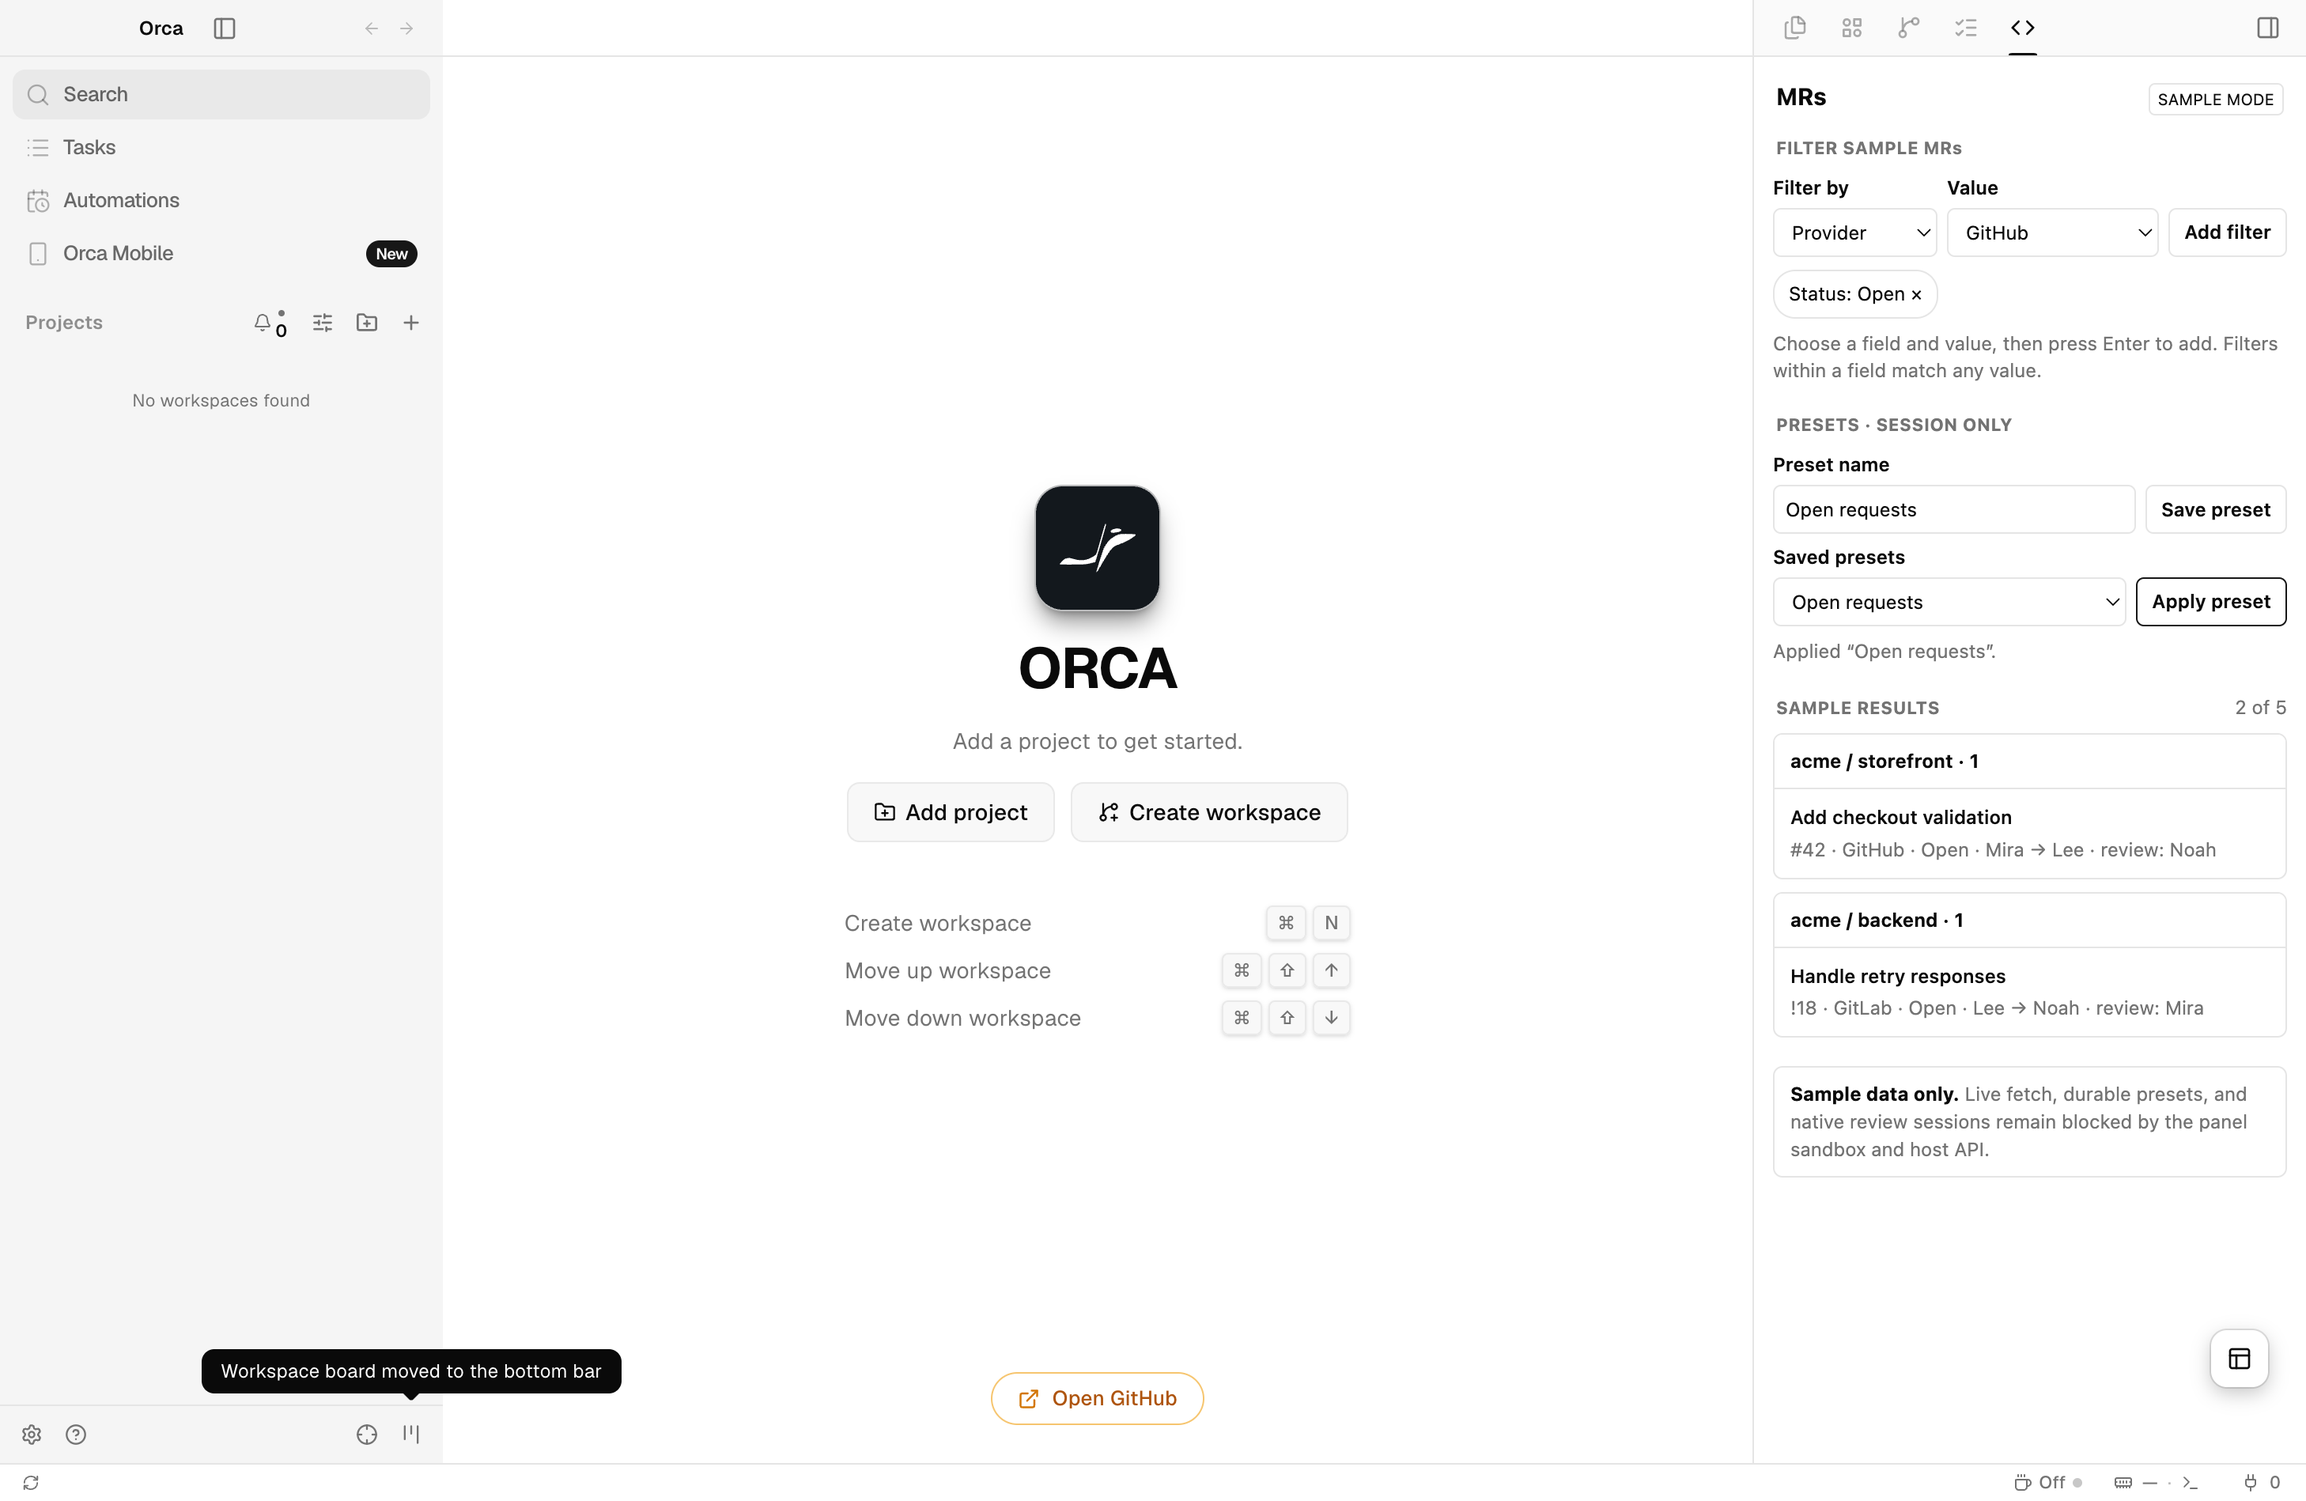
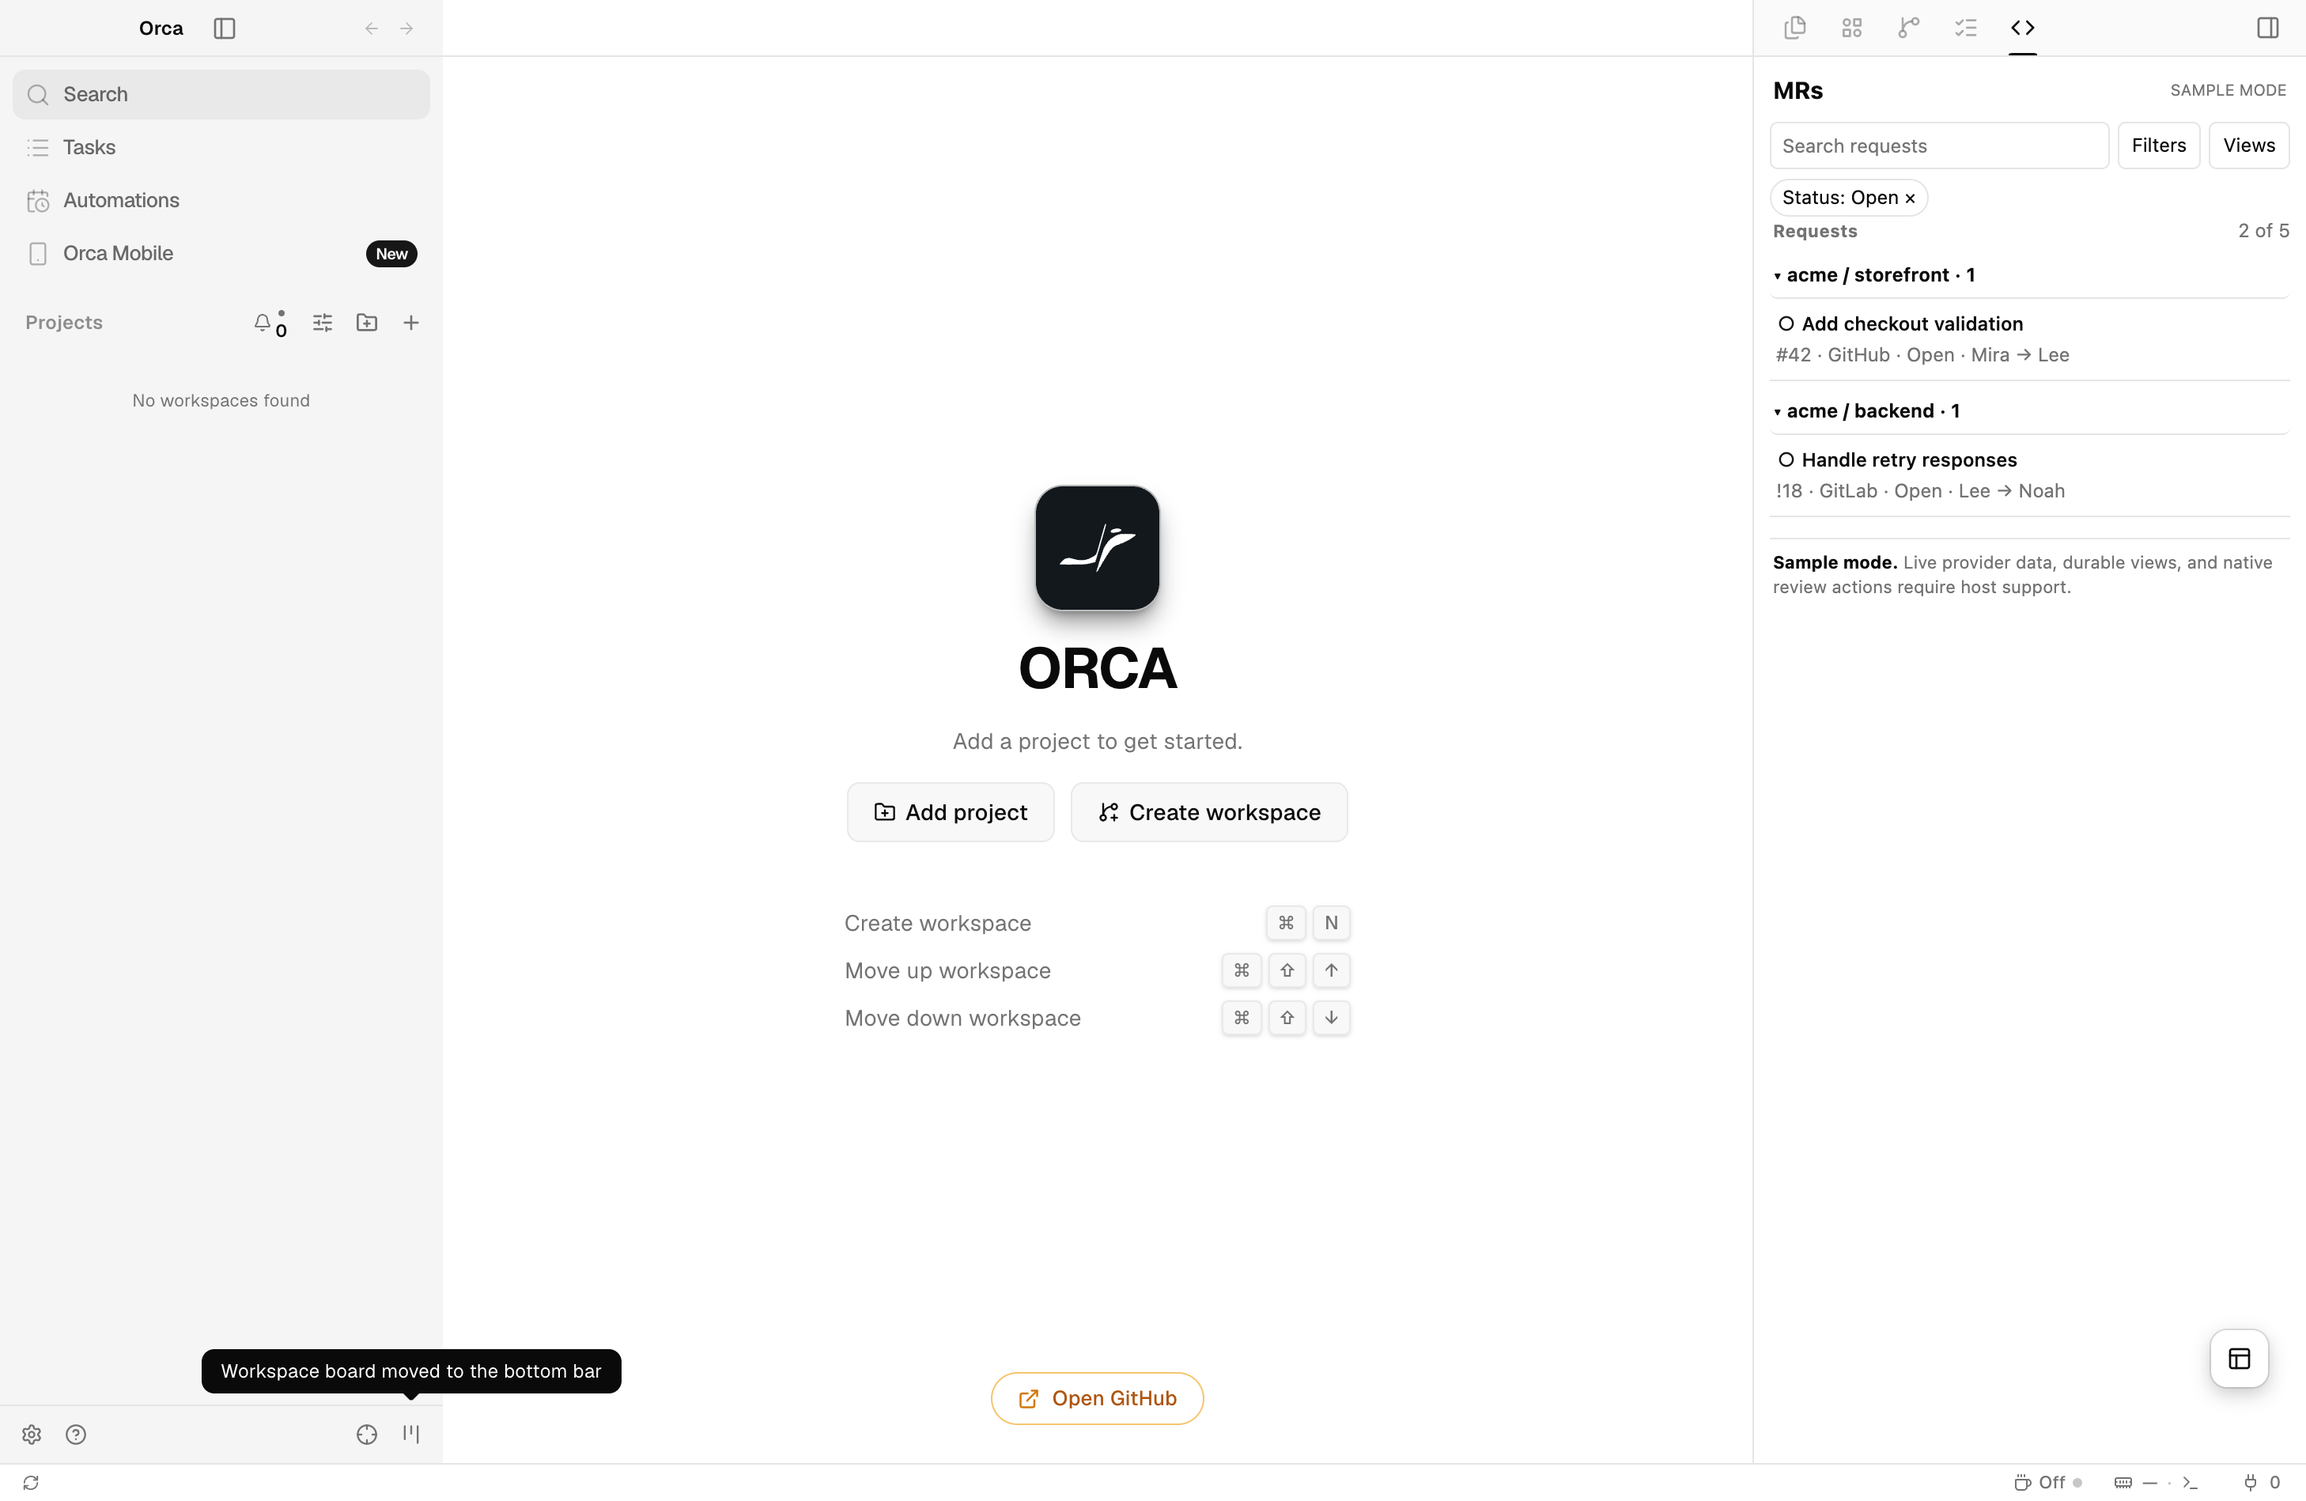
Prepare v1.5.4 reviewed sidebar UI refresh

diff --git a/setup/index.html b/setup/index.html
@@ -4,7 +4,7 @@
 <style>
 *{box-sizing:border-box}body{margin:0;background:var(--background);color:var(--foreground);font:14px/1.6 "Inter Variable",Inter,system-ui,sans-serif}main{max-width:1160px;margin:auto;padding:32px 28px 48px}h1,h2,h3,p{margin:0}h1{font-size:30px;letter-spacing:-.8px;line-height:1.3}h2{font-size:20px;margin-bottom:14px}h3{font-size:14px}.eyebrow{color:var(--muted-foreground);font-size:11px;letter-spacing:1.5px;text-transform:uppercase;margin-bottom:8px}.lede{color:var(--muted-foreground);max-width:760px;margin-top:10px}.top{display:flex;justify-content:space-between;align-items:center;gap:18px}.badge{background:var(--accent);color:var(--accent-foreground);padding:5px 10px;border-radius:5px;font-size:12px;white-space:nowrap}.toolbar{display:flex;gap:16px;align-items:center;flex-wrap:wrap;margin:26px 0 14px}label{font-weight:600}select{font:inherit;background:var(--card);color:var(--card-foreground);border:1px solid var(--border);padding:8px 32px 8px 12px;border-radius:5px}select:focus-visible,a:focus-visible,textarea:focus-visible{outline:2px solid var(--ring);outline-offset:3px}.hint{color:var(--muted-foreground);font-size:12px}.workspace{border:1px solid var(--border);border-radius:8px;overflow:hidden}.titlebar{background:var(--background);padding:11px 16px;border-bottom:1px solid var(--border);display:flex;justify-content:space-between}.workspace-body{display:grid;grid-template-columns:180px 1fr}.files{background:var(--sidebar);color:var(--sidebar-foreground);padding:20px 12px}.files small{color:var(--muted-foreground);font-size:10px;letter-spacing:1px}.file{padding:7px 10px;border-radius:4px;overflow-wrap:anywhere}.file.active{margin-top:12px;background:var(--sidebar-accent);color:var(--sidebar-accent-foreground)}.editor{background:var(--editor-surface);padding:0 20px 20px;min-width:0}.tab{display:inline-block;border-bottom:3px solid var(--primary);padding:10px 2px 7px;font-size:12px;margin-bottom:12px}.code{font:13px/1.75 "JetBrains Mono",ui-monospace,monospace;white-space:pre-wrap;overflow-wrap:anywhere;margin:0}.terminal{background:var(--terminal-background);color:var(--terminal-foreground);border-top:1px solid var(--border);padding:14px 20px 20px}.terminal small{color:var(--muted-foreground);font-size:10px;letter-spacing:1px}.pass{color:var(--terminal-green)}.ansi{display:flex;gap:8px;margin-top:15px}.ansi span{width:28px;height:7px;border-radius:2px}.footer{background:var(--background);border-top:1px solid var(--border);padding:7px 15px;display:flex;justify-content:space-between;font-size:11px;color:var(--muted-foreground)}section{margin-top:30px}.settings{display:grid;grid-template-columns:repeat(3,minmax(0,1fr));gap:12px}.card{background:var(--card);color:var(--card-foreground);border:1px solid var(--border);padding:17px;border-radius:7px}.card p,.card li{color:var(--muted-foreground);font-size:12px}.card ul{padding-left:18px;margin:10px 0 0}.card strong{color:var(--card-foreground)}.callout{border-left:3px solid var(--primary);background:var(--secondary);color:var(--secondary-foreground);padding:15px 18px;margin-top:18px}.callout p{font-size:12px;margin-top:5px}.steps{padding-left:22px}.steps li{margin:9px 0}.steps code,.card code{font-family:"JetBrains Mono",monospace;font-size:12px;overflow-wrap:anywhere}.url{display:block;white-space:pre-wrap;overflow-wrap:anywhere;border:1px solid var(--border);background:var(--card);padding:12px;margin:8px 0;color:var(--card-foreground);font-family:"JetBrains Mono",monospace}a{color:var(--foreground);text-underline-offset:3px}details{border:1px solid var(--border);border-radius:6px;padding:13px 16px}summary{cursor:pointer;font-weight:600}textarea{margin-top:12px;width:100%;height:240px;resize:vertical;background:var(--editor-surface);color:var(--foreground);font:12px/1.6 "JetBrains Mono",monospace;border:1px solid var(--border);padding:12px}.legal{color:var(--muted-foreground);font-size:12px;margin-top:24px}@media(max-width:700px){main{padding:22px 16px}.top{align-items:flex-start;flex-direction:column}.settings{grid-template-columns:1fr}.workspace-body{grid-template-columns:110px 1fr}.files{padding:12px 5px}.file{padding:5px}.editor,.terminal{padding-left:12px;padding-right:12px}h1{font-size:25px}.code{font-size:11px}.titlebar{padding:9px 10px}.footer{gap:10px;flex-wrap:wrap}}
 </style></head><body><main>
-<div class="top"><div><p class="eyebrow">Adarsh Orca Marketplace · 1.5.3</p><h1>A cohesive GoLand-style workspace</h1></div><span class="badge">Twelve complete palette pairs</span></div>
+<div class="top"><div><p class="eyebrow">Adarsh Orca Marketplace · 1.5.4</p><h1>A cohesive GoLand-style workspace</h1></div><span class="badge">Twelve complete palette pairs</span></div>
 <p class="lede">Choose a palette, select the matching terminal theme in Orca, then use the settings below on every laptop. This panel previews the collection; it does not apply global settings.</p>
 <div class="toolbar"><label for="palette">Palette preview</label><select id="palette"></select><span class="hint" id="mode"></span></div>
 <div class="workspace"><div class="titlebar"><strong>orca</strong><span>workspace / main</span></div><div class="workspace-body"><aside class="files"><small>PROJECT</small><div class="file active">orca</div><div class="file">themes/</div><div class="file">presets/</div><div class="file">main.go</div><div class="file">go.mod</div></aside><div><div class="editor"><div class="tab">main.go</div><pre class="code">package main

diff --git a/README.md b/README.md
@@ -11,21 +11,21 @@ Requires **Orca 1.4.244 or newer**. In **Settings → Plugins → Marketplace so
 - **Git URL:** `https://github.com/im-adarsh/orca.git`
 - **Git ref:** `main`
 
-Add the source, install **GoLand Style for Orca**, review it, and enable it. The index pins the plugin to immutable release `v1.5.3`. Public downloads use HTTPS, so a GitHub SSH key is unnecessary. This is a personal marketplace published by `im-adarsh`.
+Add the source, install **GoLand Style for Orca**, review it, and enable it. The index pins the plugin to immutable release `v1.5.4`. Public downloads use HTTPS, so a GitHub SSH key is unnecessary. This is a personal marketplace published by `im-adarsh`.
 
-Already added the source? Refresh it before updating. The development Git remote remains SSH. Direct installation also works with **Install plugin → Git URL**: `https://github.com/im-adarsh/orca.git#v1.5.3`. For **Local folder**, supply an absolute filesystem path to this checkout, not a Git URL.
+Already added the source? Refresh it before updating. The development Git remote remains SSH. Direct installation also works with **Install plugin → Git URL**: `https://github.com/im-adarsh/orca.git#v1.5.4`. For **Local folder**, supply an absolute filesystem path to this checkout, not a Git URL.
 
 If Install says “Could not prepare this plugin for review,” follow [the installation troubleshooting guide](docs/install-troubleshooting.md).
 
 ## Marketplace packages
 
-The current source removes **Developer Commands** and **Agent Profiles**, including their launcher, presets, panel sources, and dedicated tooling. The theme collection now contributes only **GoLand Setup** and requests no workspace or terminal permissions. Release **v1.5.3** includes the JetBrains icon update and the explicitly labeled MRs prototype. Refresh your marketplace source and update the theme package to remove them from an older installation.
+The current source removes **Developer Commands** and **Agent Profiles**, including their launcher, presets, panel sources, and dedicated tooling. The theme collection now contributes only **GoLand Setup** and requests no workspace or terminal permissions. Release **v1.5.4** includes the JetBrains icon update and the explicitly labeled MRs prototype. Refresh your marketplace source and update the theme package to remove them from an older installation.
 
 The newer catalog includes **JetBrains File Icons** (four variants), gated to **Orca 1.4.245+**. Install **Excalidraw** from Orca’s official catalog; personal catalogs cannot list official plugin identities. The latest stable host checked was 1.4.244, so those packages are prepared but cannot yet be installed there. See [developer setup, compatibility, and verification](docs/developer-kit.md).
 
 ## MRs right-side prototype
 
-Install **MRs Panel Prototype** from this marketplace for the right-side tab. It uses sample data with repository groups, removable filter chips, and named presets that last for the current panel session. Live GitHub/GitLab fetching, persistent filters, and native review sessions are unavailable. See [the verified panel and screenshot](plugins/mrs-panel/README.md). JetBrains File Icons **1.0.1** adds dedicated JSP/JSPX artwork across all four variants.
+Install **MRs Panel Prototype** from this marketplace for the right-side tab. It uses a compact repository list, search and filter popovers, sample details, and named session views. The provider-query editor preserves native GitHub search text and GitLab MR parameters, but does not execute them against live providers. Live GitHub/GitLab fetching, persistent filters, and native review sessions are unavailable. See [the verified panel and screenshot](plugins/mrs-panel/README.md). JetBrains File Icons **1.0.1** adds dedicated JSP/JSPX artwork across all four variants.
 
 ## Pick a family
 

diff --git a/plugins/mrs-panel/README.md b/plugins/mrs-panel/README.md
@@ -1,8 +1,8 @@
 # MRs right-sidebar prototype
 
-This sample-only marketplace panel mounts MRs in the right sidebar. Five varied local requests are grouped by repository. Status, author, assignee, reviewer, repository, and provider filters use removable chips. Named presets work only during the current panel session.
+This sample-only marketplace panel mounts MRs in the right sidebar. Five varied local requests are grouped by repository. Status, author, assignee, reviewer, repository, and provider filters use removable chips. Named views work only during the current panel session. Search, filter/view popovers, collapsible groups and sample detail/back navigation keep requests visible near the top. The provider-query editor preserves complete GitHub query text and GitLab parameters, including arrays, exclusions and Unicode. These queries are unchecked and explicitly not executed in sample mode; this is not a claim of live support for every provider filter.
 
-The prototype uses legacy manifest format 1 with `engines.orca >=1.4.244` so stock 1.4.244 and newer Orca can parse it. Format 1 derives the panel execution profile from its contribution. The generated `../mrs-panel-modern` package uses format 2 for Orca 1.4.245+. Its panel HTML is identical. The legacy package is also published as the root of tag `mrs-panel-v0.1.0` for older marketplace clients.
+The prototype uses legacy manifest format 1 with `engines.orca >=1.4.244` so stock 1.4.244 and newer Orca can parse it. Format 1 derives the panel execution profile from its contribution. The generated `../mrs-panel-modern` package uses format 2 for Orca 1.4.245+. Its panel HTML is identical. The legacy package is also published as the root of tag `mrs-panel-v0.1.1` for older marketplace clients.
 
 The observed panel CSP has `connect-src 'none'`, and the panel host API has no credential or storage access. Live GitHub/GitLab requests, persistent saved filters, and opening a native review session remain blocked by that public API boundary. It is listed explicitly as a prototype, not as a live MRs integration.
 

diff --git a/RUN-NOTES.md b/RUN-NOTES.md
@@ -68,3 +68,7 @@ This supersedes earlier notes that stock-app verification was pending. Full live
 ## Publication authorized
 
 The user subsequently requested merge and publication. The reviewed branch was merged into main. Release v1.5.3 publishes the icon update and a clearly labeled sample-only MRs prototype through both marketplace formats; the live API limitations remain unchanged. Earlier unpublished-status notes describe the pre-release review state.
+
+## v1.5.4 independent acceptance
+
+UI/UX Pro Max and Ponytail review, scoped Paradev/Orca REA evidence, and stock-app checks accepted the compact sidebar correction. Actual stock Orca 1.4.244 verified filtering, session views, exact cross-provider query restoration, Unicode input, explicit unexecuted state, local-view restoration and detail/back. First request top was 153px. Screenshots and sanitized verification are updated. The existing merge/publish instruction authorizes this UI correction release. Provider-query editing does not remove the live API, persistent storage or review-session blockers.

diff --git a/CHANGELOG.md b/CHANGELOG.md
@@ -1,5 +1,11 @@
 # Changelog
 
+## 1.5.4 — 2026-10-30
+
+- Redesign the MRs right-sidebar prototype with compact search/filter/view controls, collapsible repositories and sample request details.
+- Preserve native GitHub query text and GitLab parameter syntax in session views; queries remain explicitly unexecuted in sample mode.
+- Fix narrow popovers, keyboard focus, provider labels, Unicode handling and credential-parameter rejection. No host or desktop changes.
+
 ## 1.5.3 — 2026-10-30
 
 - Publish MRs Panel Prototype as a right-sidebar tab with sample repository groups, filter chips and session-only named presets. Live fetching, durable presets and native review sessions remain unavailable.
